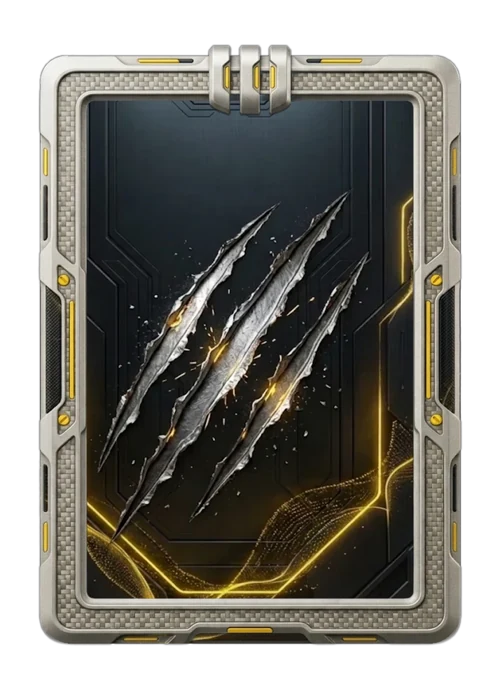
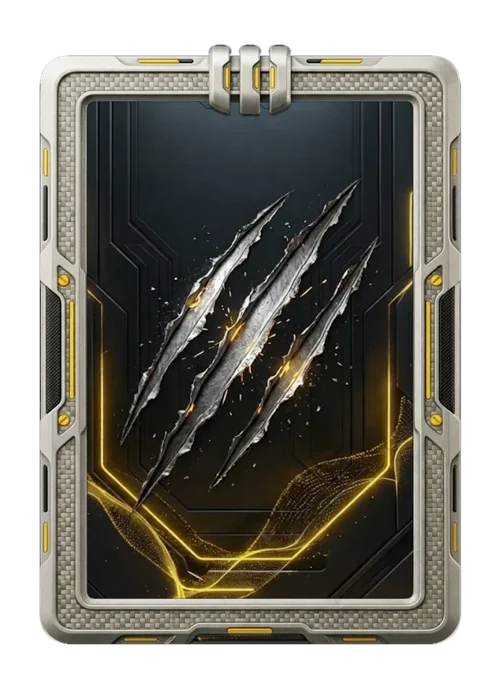
drop the name on epic cards whose top ornament covers it
Adds the nameDrop field to the card outfit and applies it to rajada,
pedreira, miragem, cartada and ima; marks the eight December epics as
in the app in the catalog and documents them in the design system.

Claude-Session: https://claude.ai/code/session_01N8XLJnbVzdxBpEyFXYpeKD

diff --git a/components/cancha-card.tsx b/components/cancha-card.tsx
@@ -120,6 +120,8 @@ export type Roupa = {
   statsPadX?: number;
   /** Afasta o nome e o selo do OVR das laterais (em cqw), quando enfeites da moldura entram na carta pelo alto. */
   namePadX?: number;
+  /** Desce o nome e a posição (em cqw) quando o enfeite do topo da moldura cobre o nome (Cartada e Ímã, 2026-11-12); o selo do OVR fica onde está. */
+  nameDrop?: number;
   /** Peças que flutuam em volta da carta (animação lenta, só nas cartas grandes). */
   floaters?: readonly Floater[];
   /** Sobe e afasta das laterais os números das estatísticas (em cqw), para a moldura da arte não passar por cima deles. */
@@ -271,15 +273,15 @@ const ROUPAS = {
   // Épicas de dezembro de 2026 (evento Destino, só de pacote; aprovadas pelo dono do app em 2026-11-12): fundo e borda do dono no Gemini, montados por
   // `scripts/cartas/montar-epica.py` (borda opaca POR CIMA do conteúdo, mesmo cobrindo uma coisa ou outra; o brilho do neon entra só como luz).
   // Rajada (feixe vermelho; gema de rubi no topo)
-  rajada: { background: "premium-rajada", overflow: "premium-rajada-vaza", statsLift: 6, statsPadX: 4, artInset: { x: 1.43, y: 1.02, radius: 7.5 }, window: "ring", windowInset: { x: 1.43, y: 1.02 }, windowRadius: 7.5, contentPad: 6.25, artFrame: true, trim: null, metal: ["#5a6470", "#5a6470", "#ffd0cc"], accent: "#ff6b5e", light: "255 120 110", bar: "#14060a", muted: "#ffc9c4", sparkles: false, neon: "#ff3b30" },
+  rajada: { background: "premium-rajada", overflow: "premium-rajada-vaza", statsLift: 6, statsPadX: 4, nameDrop: 4, artInset: { x: 1.43, y: 1.02, radius: 7.5 }, window: "ring", windowInset: { x: 1.43, y: 1.02 }, windowRadius: 7.5, contentPad: 6.25, artFrame: true, trim: null, metal: ["#5a6470", "#5a6470", "#ffd0cc"], accent: "#ff6b5e", light: "255 120 110", bar: "#14060a", muted: "#ffc9c4", sparkles: false, neon: "#ff3b30" },
   // Pedreira (rochas; bloco de pedra no topo)
-  pedreira: { background: "premium-pedreira", overflow: "premium-pedreira-vaza", statsLift: 6, artInset: { x: 1.43, y: 1.02, radius: 7.5 }, window: "ring", windowInset: { x: 1.43, y: 1.02 }, windowRadius: 7.5, contentPad: 6.25, artFrame: true, trim: null, metal: ["#8a5a32", "#8a5a32", "#ffe0bf"], accent: "#f0a35e", light: "255 190 130", bar: "#140b05", muted: "#f5d2b0", sparkles: false, neon: "#ff9a3c" },
+  pedreira: { background: "premium-pedreira", overflow: "premium-pedreira-vaza", statsLift: 6, nameDrop: 4, artInset: { x: 1.43, y: 1.02, radius: 7.5 }, window: "ring", windowInset: { x: 1.43, y: 1.02 }, windowRadius: 7.5, contentPad: 6.25, artFrame: true, trim: null, metal: ["#8a5a32", "#8a5a32", "#ffe0bf"], accent: "#f0a35e", light: "255 190 130", bar: "#140b05", muted: "#f5d2b0", sparkles: false, neon: "#ff9a3c" },
   // Cartada (cartas em energia rosa; losango com gema no topo)
-  cartada: { background: "premium-cartada", overflow: "premium-cartada-vaza", statsLift: 7, statsPadX: 5, artInset: { x: 1.43, y: 1.02, radius: 7.5 }, window: "ring", windowInset: { x: 1.43, y: 1.02 }, windowRadius: 7.5, contentPad: 6.25, artFrame: true, trim: null, metal: ["#5a4a5c", "#5a4a5c", "#ffd6f4"], accent: "#ff7ad9", light: "255 140 230", bar: "#12060f", muted: "#ffc9ee", sparkles: false, neon: "#ff4fd2" },
+  cartada: { background: "premium-cartada", overflow: "premium-cartada-vaza", statsLift: 7, statsPadX: 5, nameDrop: 8, artInset: { x: 1.43, y: 1.02, radius: 7.5 }, window: "ring", windowInset: { x: 1.43, y: 1.02 }, windowRadius: 7.5, contentPad: 6.25, artFrame: true, trim: null, metal: ["#5a4a5c", "#5a4a5c", "#ffd6f4"], accent: "#ff7ad9", light: "255 140 230", bar: "#12060f", muted: "#ffc9ee", sparkles: false, neon: "#ff4fd2" },
   // Ímã (redemoinho magnético; ímã de ferradura no topo)
-  ima: { background: "premium-ima", overflow: "premium-ima-vaza", statsLift: 7, statsPadX: 5, artInset: { x: 1.43, y: 1.02, radius: 7.5 }, window: "ring", windowInset: { x: 1.43, y: 1.02 }, windowRadius: 7.5, contentPad: 6.25, artFrame: true, trim: null, metal: ["#6a3a4a", "#6a3a4a", "#f0d0ff"], accent: "#c78bff", light: "200 140 255", bar: "#10060f", muted: "#e3c8ff", sparkles: false, neon: "#b05cff" },
+  ima: { background: "premium-ima", overflow: "premium-ima-vaza", statsLift: 7, statsPadX: 5, nameDrop: 8, artInset: { x: 1.43, y: 1.02, radius: 7.5 }, window: "ring", windowInset: { x: 1.43, y: 1.02 }, windowRadius: 7.5, contentPad: 6.25, artFrame: true, trim: null, metal: ["#6a3a4a", "#6a3a4a", "#f0d0ff"], accent: "#c78bff", light: "200 140 255", bar: "#10060f", muted: "#e3c8ff", sparkles: false, neon: "#b05cff" },
   // Miragem (campo de força de gelo; cristal hexagonal no topo)
-  miragem: { background: "premium-miragem", overflow: "premium-miragem-vaza", statsLift: 4, artInset: { x: 1.43, y: 1.02, radius: 7.5 }, window: "ring", windowInset: { x: 1.43, y: 1.02 }, windowRadius: 7.5, contentPad: 6.25, artFrame: true, trim: null, metal: ["#6f8fae", "#6f8fae", "#eaf6ff"], accent: "#9fd8ff", light: "170 225 255", bar: "#06121e", muted: "#cfeaff", sparkles: false, neon: "#7fd0ff" },
+  miragem: { background: "premium-miragem", overflow: "premium-miragem-vaza", statsLift: 4, nameDrop: 4, artInset: { x: 1.43, y: 1.02, radius: 7.5 }, window: "ring", windowInset: { x: 1.43, y: 1.02 }, windowRadius: 7.5, contentPad: 6.25, artFrame: true, trim: null, metal: ["#6f8fae", "#6f8fae", "#eaf6ff"], accent: "#9fd8ff", light: "170 225 255", bar: "#06121e", muted: "#cfeaff", sparkles: false, neon: "#7fd0ff" },
   // Elástico (fios azuis esticados; nó de fios no topo)
   elastico: { background: "premium-elastico", overflow: "premium-elastico-vaza", statsLift: 4, artInset: { x: 1.43, y: 1.02, radius: 7.5 }, window: "ring", windowInset: { x: 1.43, y: 1.02 }, windowRadius: 7.5, contentPad: 6.25, artFrame: true, trim: null, metal: ["#3f5a80", "#3f5a80", "#d8e8ff"], accent: "#7fb6ff", light: "140 190 255", bar: "#050b18", muted: "#c4dcff", sparkles: false, neon: "#4a9dff" },
   // Labareda (fogo; chama dourada no topo)
@@ -1041,7 +1043,7 @@ export function CanchaCard({ player, award, className, photoSizes, photoFrame = 
             "absolute inset-x-0 top-0 z-[3] flex h-[16%] flex-col justify-center border-b-[0.6cqw] border-(--cc-accent) pt-[2.6cqw] pr-[26cqw] pl-[8cqw] leading-none whitespace-nowrap",
             roupa.bareName ? "" : roupa.matte ? "bg-(--cc-bar)" : "bg-linear-to-b from-black/80 to-black/40",
           )}
-          style={roupa.contentPad ? { height: `calc(16% + ${roupa.contentPad}cqw)`, paddingLeft: `${8 + roupa.contentPad + (roupa.namePadX ?? 0)}cqw`, paddingTop: `${2.6 + roupa.contentPad}cqw` } : undefined}
+          style={roupa.contentPad ? { height: `calc(16% + ${roupa.contentPad + (roupa.nameDrop ?? 0)}cqw)`, paddingLeft: `${8 + roupa.contentPad + (roupa.namePadX ?? 0)}cqw`, paddingTop: `${2.6 + roupa.contentPad + (roupa.nameDrop ?? 0)}cqw` } : undefined}
         >
           <span className="truncate text-[10.5cqw] font-extrabold">{player.nickname}</span>
           <span className="mt-[1cqw] truncate text-[3.8cqw] font-bold tracking-[0.2em] text-(--cc-muted) uppercase">{subtitle}</span>

diff --git a/.claude/rules/design-system.md b/.claude/rules/design-system.md
@@ -103,6 +103,7 @@ cada nível acrescenta algo que o anterior não tem. **Comum:** borda simples (f
 - **Selo de nível:** hexágono pequeno dentro da ponta de baixo da carta base (na cor da moldura; dourado nas cartas da Loja), longe dos selos da mesa tática. Some nas cartas especiais.
 - **Cartas premium (aprovadas pelo dono do app, "rascunho 4"):** estilo TOTY sóbrio: moldura e lâminas finas em **ouro champanhe** (`--card-gold`), face em vidro translúcido escuro com fio dourado, **atributos numa linha só** (sigla em cima e valor embaixo, como a carta base e as especiais; aprovado pelo dono do app em 2026-10-21, antes eram 2 colunas de 3 com divisória). Só a cor da face muda por carta (`@utility card-skin-<chave>`: Esmeralda (liberada desde o nível 0), Safira, Ametista, Rubi, Turquesa, Ônix e **Ícone**, a branca, última). Nada de asas, cristais ou enfeites (o dono achou "exagerado" e "cartunesco"). **Sem `filter` CSS nessas cartas nem em volta delas** (`drop-shadow`, `saturate`…): na grade da Loja, no iPhone, a prévia quebrava em blocos e pedaços fora do lugar (o WebKit do Playwright não reproduz). A sombra é um degradê atrás da carta; a bloqueada fica só com opacidade.
 - **Tormenta (2026-11-09, lendária de dezembro, nível 5, 600 CC, evento "Destino" da Loja):** receita da Destino com arte do dono no Gemini: fundo de tempestade azul com raios, moldura de ferro com runas azuis brilhando, martelo de nós celtas no topo e peles nos cantos de cima (`tormenta-{fundo,borda}-dono.webp`); fundo montado com `montar-carta.cjs tormenta ... 60,75,704,965 - 12 0,0,765,1024` e **moldura com `tormenta-borda.cjs` (recorte próprio, 2026-11-09)**: o montador padrão cercava os raios com uma silhueta escura opaca (manchas pretas por baixo deles); no recorte novo só o ferro e as peles/martelo são opacos e todo o resto (raios, brilho) sai só pela luz, com a cor desmultiplicada (cor ÷ alfa), que não deixa borda escura sobre o fundo. Em moldura com raios ou brilho, use esse método; **sem `holeRect`** (decisão do dono do app em 2026-11-09: nas lendárias, todos os enfeites da moldura ficam POR CIMA do conteúdo, mesmo cobrindo uma letra ou outra; é isso que as torna lendárias, e cortar o miolo deixa estranho); `statsLift` 5 sobe as estatísticas. Flutuantes (`tormenta-pecas.cjs`): rochas de cristal, runas de pedra e três raios que estalam (`thunder-strike`, só `opacity`).
+- **Épicas de dezembro (2026-11-12, aprovadas pelo dono do app; só de pacote, evento Destino):** Rajada, Pedreira, Cartada, Ímã, Miragem, Elástico, Labareda e Garra. Fundo e borda do dono no Gemini (alusões a poderes de heróis, **sem emblema**: a primeira leva de bordas trazia o "X", o "4" e o "M" e foi refeita), camadas por `scripts/cartas/montar-epica.py` (borda opaca POR CIMA do conteúdo, só a matéria pouco saturada é opaca; o brilho do neon entra como luz). Campo novo da roupa `nameDrop` (cqw) desce o nome quando o enfeite do topo o cobre (4 na Rajada, Pedreira e Miragem; 8 na Cartada e no Ímã); `statsLift`/`statsPadX` nas de borda grossa embaixo. No Ímã, o ímã ainda cobre o fim do nome (aceito pela regra "a borda fica por cima").
 - **Embuste (2026-11-09, lendária de dezembro, nível 5, 600 CC, evento "Destino" da Loja):** mesma receita da Tormenta: fundo de floresta sob aurora verde com fumaça em serpente (`embuste-fundo-dono.webp`, `montar-carta.cjs embuste ... 48,88,692,965 - 12 0,0,728,1024`) e moldura de ferro com runas verdes, chifres dourados com esmeralda, dragões e panos (`embuste-borda-dono.webp`, recorte `embuste-borda.cjs`: ferro e as zonas de matéria opacos, a fumaça verde só por luz, cor ÷ alfa). Enfeites por cima do conteúdo, `statsLift` 5. Flutuantes (`embuste-pecas.cjs`): fumaça girando devagar atrás (`spin`, 140 s), rochas com esmeralda, runas de pedra e adaga.
 - **Cartas de evento (Halloween 2026, aprovadas pelo dono do app):** o mesmo desenho premium, com metal próprio no lugar do ouro (`--card-gold` redefinido na `@utility` da carta + `METAL_STOPS` no `player-card.tsx`) e detalhes mínimos do tema no SVG da face. **Lobisomem:** prata enluarada, noite azul-ardósia, lua cheia com crateras atrás da cabeça, **cabeça de lobo rosnando desenhada pelo dono do app** (vetorizada do desenho dele; olho e pelo recortados) em **cinza translúcido, como marca d'água por cima da lua**, olhando para ela e sumindo embaixo atrás do ombro (descartados: os lobos desenhados pelo Claude) e três arranhões no fio interno da lateral direita (a pata no topo foi descartada: parecia estrelas). **Vampiro:** metal rubi escuro, veludo bordô, lua de sangue atrás do ombro com **morcegos** contra ela, presas no lugar do selo de cima, duas gotas escorrendo do fio interno e asas de morcego finas por fora dos cantos de cima.
 - **Cores de clube e tema Brasileirão:** saíram em 2026-10-29 (decisão do dono do app: novembro vai seguir outro caminho).

diff --git a/docs/cartas/LINHA-DO-TEMPO.md b/docs/cartas/LINHA-DO-TEMPO.md
@@ -7,27 +7,35 @@
 - [Rajada](./rajada/README.md): peças recebidas do Gemini
 - [Rajada](./rajada/README.md): borda refeita no Gemini sem o emblema do topo, com enfeite próprio
 - [Rajada](./rajada/README.md): aprovada pelo dono como épica; prévia no tamanho padrão (5:7 nos 84% do meio)
+- [Rajada](./rajada/README.md): ligada no código (só de pacote, evento Destino, épica), montada com jogador e estatísticas; aprovada com a foto do dono
 - [Pedreira](./pedreira/README.md): peças recebidas do Gemini
 - [Pedreira](./pedreira/README.md): borda refeita no Gemini sem o emblema do topo, com enfeite próprio
 - [Pedreira](./pedreira/README.md): aprovada pelo dono como épica; prévia no tamanho padrão (5:7 nos 84% do meio)
+- [Pedreira](./pedreira/README.md): ligada no código (só de pacote, evento Destino, épica), montada com jogador e estatísticas; aprovada com a foto do dono
 - [Cartada](./cartada/README.md): peças recebidas do Gemini
 - [Cartada](./cartada/README.md): borda refeita no Gemini sem o emblema do topo, com enfeite próprio
 - [Cartada](./cartada/README.md): aprovada pelo dono como épica; prévia no tamanho padrão (5:7 nos 84% do meio)
+- [Cartada](./cartada/README.md): ligada no código (só de pacote, evento Destino, épica), montada com jogador e estatísticas; aprovada com a foto do dono
 - [Ímã](./ima/README.md): peças recebidas do Gemini
 - [Ímã](./ima/README.md): borda refeita no Gemini sem o emblema do topo, com enfeite próprio
 - [Ímã](./ima/README.md): aprovada pelo dono como épica; prévia no tamanho padrão (5:7 nos 84% do meio)
+- [Ímã](./ima/README.md): ligada no código (só de pacote, evento Destino, épica), montada com jogador e estatísticas; aprovada com a foto do dono
 - [Miragem](./miragem/README.md): peças recebidas do Gemini
 - [Miragem](./miragem/README.md): borda refeita no Gemini sem o emblema do topo, com enfeite próprio; fundo refeito sem a silhueta de pessoa
 - [Miragem](./miragem/README.md): aprovada pelo dono como épica; prévia no tamanho padrão (5:7 nos 84% do meio)
+- [Miragem](./miragem/README.md): ligada no código (só de pacote, evento Destino, épica), montada com jogador e estatísticas; aprovada com a foto do dono
 - [Elástico](./elastico/README.md): peças recebidas do Gemini
 - [Elástico](./elastico/README.md): borda refeita no Gemini sem o emblema do topo, com enfeite próprio
 - [Elástico](./elastico/README.md): aprovada pelo dono como épica; prévia no tamanho padrão (5:7 nos 84% do meio)
+- [Elástico](./elastico/README.md): ligada no código (só de pacote, evento Destino, épica), montada com jogador e estatísticas; aprovada com a foto do dono
 - [Labareda](./labareda/README.md): peças recebidas do Gemini
 - [Labareda](./labareda/README.md): borda refeita no Gemini sem o emblema do topo, com enfeite próprio
 - [Labareda](./labareda/README.md): aprovada pelo dono como épica; prévia no tamanho padrão (5:7 nos 84% do meio)
+- [Labareda](./labareda/README.md): ligada no código (só de pacote, evento Destino, épica), montada com jogador e estatísticas; aprovada com a foto do dono
 - [Garra](./garra/README.md): peças recebidas do Gemini
 - [Garra](./garra/README.md): borda refeita no Gemini sem o emblema do topo, com enfeite próprio; fundo refeito sem a moldura de dentro (sobra um contorno leve, coberto pela borda)
 - [Garra](./garra/README.md): aprovada pelo dono como épica; prévia no tamanho padrão (5:7 nos 84% do meio)
+- [Garra](./garra/README.md): ligada no código (só de pacote, evento Destino, épica), montada com jogador e estatísticas; aprovada com a foto do dono
 
 ## 2026-11-11
 

diff --git a/docs/cartas/README.md b/docs/cartas/README.md
@@ -53,14 +53,14 @@ As cartas anteriores a 2026-11-11 têm as peças na pasta de protótipos (`docs/
 | <img width="60" src="./voltagem/montada/voltagem-2d.webp"> | [Voltagem](./voltagem/README.md) | — | nenhum | — | guardada |
 | <img width="60" src="./mare/montada/mare-2d.webp"> | [Maré](./mare/README.md) | — | nenhum | — | guardada |
 | <img width="60" src="./aurora/montada/aurora-2d.webp"> | [Aurora](./aurora/README.md) | — | nenhum | — | guardada |
-| <img width="60" src="./rajada/montada/rajada-2d.webp"> | [Rajada](./rajada/README.md) | Épica | Pacote | Destino (dezembro de 2026) | guardada |
-| <img width="60" src="./pedreira/montada/pedreira-2d.webp"> | [Pedreira](./pedreira/README.md) | Épica | Pacote | Destino (dezembro de 2026) | guardada |
-| <img width="60" src="./cartada/montada/cartada-2d.webp"> | [Cartada](./cartada/README.md) | Épica | Pacote | Destino (dezembro de 2026) | guardada |
-| <img width="60" src="./ima/montada/ima-2d.webp"> | [Ímã](./ima/README.md) | Épica | Pacote | Destino (dezembro de 2026) | guardada |
-| <img width="60" src="./miragem/montada/miragem-2d.webp"> | [Miragem](./miragem/README.md) | Épica | Pacote | Destino (dezembro de 2026) | guardada |
-| <img width="60" src="./elastico/montada/elastico-2d.webp"> | [Elástico](./elastico/README.md) | Épica | Pacote | Destino (dezembro de 2026) | guardada |
-| <img width="60" src="./labareda/montada/labareda-2d.webp"> | [Labareda](./labareda/README.md) | Épica | Pacote | Destino (dezembro de 2026) | guardada |
-| <img width="60" src="./garra/montada/garra-2d.webp"> | [Garra](./garra/README.md) | Épica | Pacote | Destino (dezembro de 2026) | guardada |
+| <img width="60" src="./rajada/montada/rajada-2d.webp"> | [Rajada](./rajada/README.md) | Épica | Pacote | Destino (dezembro de 2026) | no app |
+| <img width="60" src="./pedreira/montada/pedreira-2d.webp"> | [Pedreira](./pedreira/README.md) | Épica | Pacote | Destino (dezembro de 2026) | no app |
+| <img width="60" src="./cartada/montada/cartada-2d.webp"> | [Cartada](./cartada/README.md) | Épica | Pacote | Destino (dezembro de 2026) | no app |
+| <img width="60" src="./ima/montada/ima-2d.webp"> | [Ímã](./ima/README.md) | Épica | Pacote | Destino (dezembro de 2026) | no app |
+| <img width="60" src="./miragem/montada/miragem-2d.webp"> | [Miragem](./miragem/README.md) | Épica | Pacote | Destino (dezembro de 2026) | no app |
+| <img width="60" src="./elastico/montada/elastico-2d.webp"> | [Elástico](./elastico/README.md) | Épica | Pacote | Destino (dezembro de 2026) | no app |
+| <img width="60" src="./labareda/montada/labareda-2d.webp"> | [Labareda](./labareda/README.md) | Épica | Pacote | Destino (dezembro de 2026) | no app |
+| <img width="60" src="./garra/montada/garra-2d.webp"> | [Garra](./garra/README.md) | Épica | Pacote | Destino (dezembro de 2026) | no app |
 
 ## Visuais de prêmio (10)
 

diff --git a/docs/cartas/garra/README.md b/docs/cartas/garra/README.md
@@ -10,8 +10,8 @@
 | Onde aparece | Pacote |
 | Evento | Destino (dezembro de 2026) |
 | Nível e preço | — |
-| Estado | guardada |
-| Roupa no código | — |
+| Estado | no app |
+| Roupa no código | `garra` em `components/cancha-card.tsx` |
 
 ## Montada
 
@@ -19,6 +19,8 @@
 
 ## Arquivos no app (`public/cartas/fundos/`)
 
+- Fundo: `premium-garra.webp`
+- Moldura e o que vaza: `premium-garra-vaza.webp`
 
 ## Peças originais (do Gemini, como o dono mandou)
 
@@ -29,13 +31,14 @@
 
 ## Scripts
 
-- —
+- `scripts/cartas/montar-epica.py`
 
 ## Histórico
 
 - **2026-11-12**: peças recebidas do Gemini
 - **2026-11-12**: borda refeita no Gemini sem o emblema do topo, com enfeite próprio; fundo refeito sem a moldura de dentro (sobra um contorno leve, coberto pela borda)
 - **2026-11-12**: aprovada pelo dono como épica; prévia no tamanho padrão (5:7 nos 84% do meio)
+- **2026-11-12**: ligada no código (só de pacote, evento Destino, épica), montada com jogador e estatísticas; aprovada com a foto do dono
 
 ## Notas
 

diff --git a/docs/cartas/miragem/README.md b/docs/cartas/miragem/README.md
@@ -10,8 +10,8 @@
 | Onde aparece | Pacote |
 | Evento | Destino (dezembro de 2026) |
 | Nível e preço | — |
-| Estado | guardada |
-| Roupa no código | — |
+| Estado | no app |
+| Roupa no código | `miragem` em `components/cancha-card.tsx` |
 
 ## Montada
 
@@ -19,6 +19,8 @@
 
 ## Arquivos no app (`public/cartas/fundos/`)
 
+- Fundo: `premium-miragem.webp`
+- Moldura e o que vaza: `premium-miragem-vaza.webp`
 
 ## Peças originais (do Gemini, como o dono mandou)
 
@@ -29,13 +31,14 @@
 
 ## Scripts
 
-- —
+- `scripts/cartas/montar-epica.py`
 
 ## Histórico
 
 - **2026-11-12**: peças recebidas do Gemini
 - **2026-11-12**: borda refeita no Gemini sem o emblema do topo, com enfeite próprio; fundo refeito sem a silhueta de pessoa
 - **2026-11-12**: aprovada pelo dono como épica; prévia no tamanho padrão (5:7 nos 84% do meio)
+- **2026-11-12**: ligada no código (só de pacote, evento Destino, épica), montada com jogador e estatísticas; aprovada com a foto do dono
 
 ## Notas
 

diff --git a/docs/cartas/elastico/README.md b/docs/cartas/elastico/README.md
@@ -10,8 +10,8 @@
 | Onde aparece | Pacote |
 | Evento | Destino (dezembro de 2026) |
 | Nível e preço | — |
-| Estado | guardada |
-| Roupa no código | — |
+| Estado | no app |
+| Roupa no código | `elastico` em `components/cancha-card.tsx` |
 
 ## Montada
 
@@ -19,6 +19,8 @@
 
 ## Arquivos no app (`public/cartas/fundos/`)
 
+- Fundo: `premium-elastico.webp`
+- Moldura e o que vaza: `premium-elastico-vaza.webp`
 
 ## Peças originais (do Gemini, como o dono mandou)
 
@@ -28,13 +30,14 @@
 
 ## Scripts
 
-- —
+- `scripts/cartas/montar-epica.py`
 
 ## Histórico
 
 - **2026-11-12**: peças recebidas do Gemini
 - **2026-11-12**: borda refeita no Gemini sem o emblema do topo, com enfeite próprio
 - **2026-11-12**: aprovada pelo dono como épica; prévia no tamanho padrão (5:7 nos 84% do meio)
+- **2026-11-12**: ligada no código (só de pacote, evento Destino, épica), montada com jogador e estatísticas; aprovada com a foto do dono
 
 ## Notas
 

diff --git a/docs/cartas/labareda/README.md b/docs/cartas/labareda/README.md
@@ -10,8 +10,8 @@
 | Onde aparece | Pacote |
 | Evento | Destino (dezembro de 2026) |
 | Nível e preço | — |
-| Estado | guardada |
-| Roupa no código | — |
+| Estado | no app |
+| Roupa no código | `labareda` em `components/cancha-card.tsx` |
 
 ## Montada
 
@@ -19,6 +19,8 @@
 
 ## Arquivos no app (`public/cartas/fundos/`)
 
+- Fundo: `premium-labareda.webp`
+- Moldura e o que vaza: `premium-labareda-vaza.webp`
 
 ## Peças originais (do Gemini, como o dono mandou)
 
@@ -28,13 +30,14 @@
 
 ## Scripts
 
-- —
+- `scripts/cartas/montar-epica.py`
 
 ## Histórico
 
 - **2026-11-12**: peças recebidas do Gemini
 - **2026-11-12**: borda refeita no Gemini sem o emblema do topo, com enfeite próprio
 - **2026-11-12**: aprovada pelo dono como épica; prévia no tamanho padrão (5:7 nos 84% do meio)
+- **2026-11-12**: ligada no código (só de pacote, evento Destino, épica), montada com jogador e estatísticas; aprovada com a foto do dono
 
 ## Notas
 

diff --git a/docs/cartas/pedreira/README.md b/docs/cartas/pedreira/README.md
@@ -10,8 +10,8 @@
 | Onde aparece | Pacote |
 | Evento | Destino (dezembro de 2026) |
 | Nível e preço | — |
-| Estado | guardada |
-| Roupa no código | — |
+| Estado | no app |
+| Roupa no código | `pedreira` em `components/cancha-card.tsx` |
 
 ## Montada
 
@@ -19,6 +19,8 @@
 
 ## Arquivos no app (`public/cartas/fundos/`)
 
+- Fundo: `premium-pedreira.webp`
+- Moldura e o que vaza: `premium-pedreira-vaza.webp`
 
 ## Peças originais (do Gemini, como o dono mandou)
 
@@ -28,13 +30,14 @@
 
 ## Scripts
 
-- —
+- `scripts/cartas/montar-epica.py`
 
 ## Histórico
 
 - **2026-11-12**: peças recebidas do Gemini
 - **2026-11-12**: borda refeita no Gemini sem o emblema do topo, com enfeite próprio
 - **2026-11-12**: aprovada pelo dono como épica; prévia no tamanho padrão (5:7 nos 84% do meio)
+- **2026-11-12**: ligada no código (só de pacote, evento Destino, épica), montada com jogador e estatísticas; aprovada com a foto do dono
 
 ## Notas
 

diff --git a/docs/cartas/cartada/README.md b/docs/cartas/cartada/README.md
@@ -10,8 +10,8 @@
 | Onde aparece | Pacote |
 | Evento | Destino (dezembro de 2026) |
 | Nível e preço | — |
-| Estado | guardada |
-| Roupa no código | — |
+| Estado | no app |
+| Roupa no código | `cartada` em `components/cancha-card.tsx` |
 
 ## Montada
 
@@ -19,6 +19,8 @@
 
 ## Arquivos no app (`public/cartas/fundos/`)
 
+- Fundo: `premium-cartada.webp`
+- Moldura e o que vaza: `premium-cartada-vaza.webp`
 
 ## Peças originais (do Gemini, como o dono mandou)
 
@@ -28,13 +30,14 @@
 
 ## Scripts
 
-- —
+- `scripts/cartas/montar-epica.py`
 
 ## Histórico
 
 - **2026-11-12**: peças recebidas do Gemini
 - **2026-11-12**: borda refeita no Gemini sem o emblema do topo, com enfeite próprio
 - **2026-11-12**: aprovada pelo dono como épica; prévia no tamanho padrão (5:7 nos 84% do meio)
+- **2026-11-12**: ligada no código (só de pacote, evento Destino, épica), montada com jogador e estatísticas; aprovada com a foto do dono
 
 ## Notas
 

diff --git a/docs/cartas/rajada/README.md b/docs/cartas/rajada/README.md
@@ -10,8 +10,8 @@
 | Onde aparece | Pacote |
 | Evento | Destino (dezembro de 2026) |
 | Nível e preço | — |
-| Estado | guardada |
-| Roupa no código | — |
+| Estado | no app |
+| Roupa no código | `rajada` em `components/cancha-card.tsx` |
 
 ## Montada
 
@@ -19,6 +19,8 @@
 
 ## Arquivos no app (`public/cartas/fundos/`)
 
+- Fundo: `premium-rajada.webp`
+- Moldura e o que vaza: `premium-rajada-vaza.webp`
 
 ## Peças originais (do Gemini, como o dono mandou)
 
@@ -28,13 +30,14 @@
 
 ## Scripts
 
-- —
+- `scripts/cartas/montar-epica.py`
 
 ## Histórico
 
 - **2026-11-12**: peças recebidas do Gemini
 - **2026-11-12**: borda refeita no Gemini sem o emblema do topo, com enfeite próprio
 - **2026-11-12**: aprovada pelo dono como épica; prévia no tamanho padrão (5:7 nos 84% do meio)
+- **2026-11-12**: ligada no código (só de pacote, evento Destino, épica), montada com jogador e estatísticas; aprovada com a foto do dono
 
 ## Notas
 

diff --git a/docs/cartas/ima/README.md b/docs/cartas/ima/README.md
@@ -10,8 +10,8 @@
 | Onde aparece | Pacote |
 | Evento | Destino (dezembro de 2026) |
 | Nível e preço | — |
-| Estado | guardada |
-| Roupa no código | — |
+| Estado | no app |
+| Roupa no código | `ima` em `components/cancha-card.tsx` |
 
 ## Montada
 
@@ -19,6 +19,8 @@
 
 ## Arquivos no app (`public/cartas/fundos/`)
 
+- Fundo: `premium-ima.webp`
+- Moldura e o que vaza: `premium-ima-vaza.webp`
 
 ## Peças originais (do Gemini, como o dono mandou)
 
@@ -28,13 +30,14 @@
 
 ## Scripts
 
-- —
+- `scripts/cartas/montar-epica.py`
 
 ## Histórico
 
 - **2026-11-12**: peças recebidas do Gemini
 - **2026-11-12**: borda refeita no Gemini sem o emblema do topo, com enfeite próprio
 - **2026-11-12**: aprovada pelo dono como épica; prévia no tamanho padrão (5:7 nos 84% do meio)
+- **2026-11-12**: ligada no código (só de pacote, evento Destino, épica), montada com jogador e estatísticas; aprovada com a foto do dono
 
 ## Notas
 
